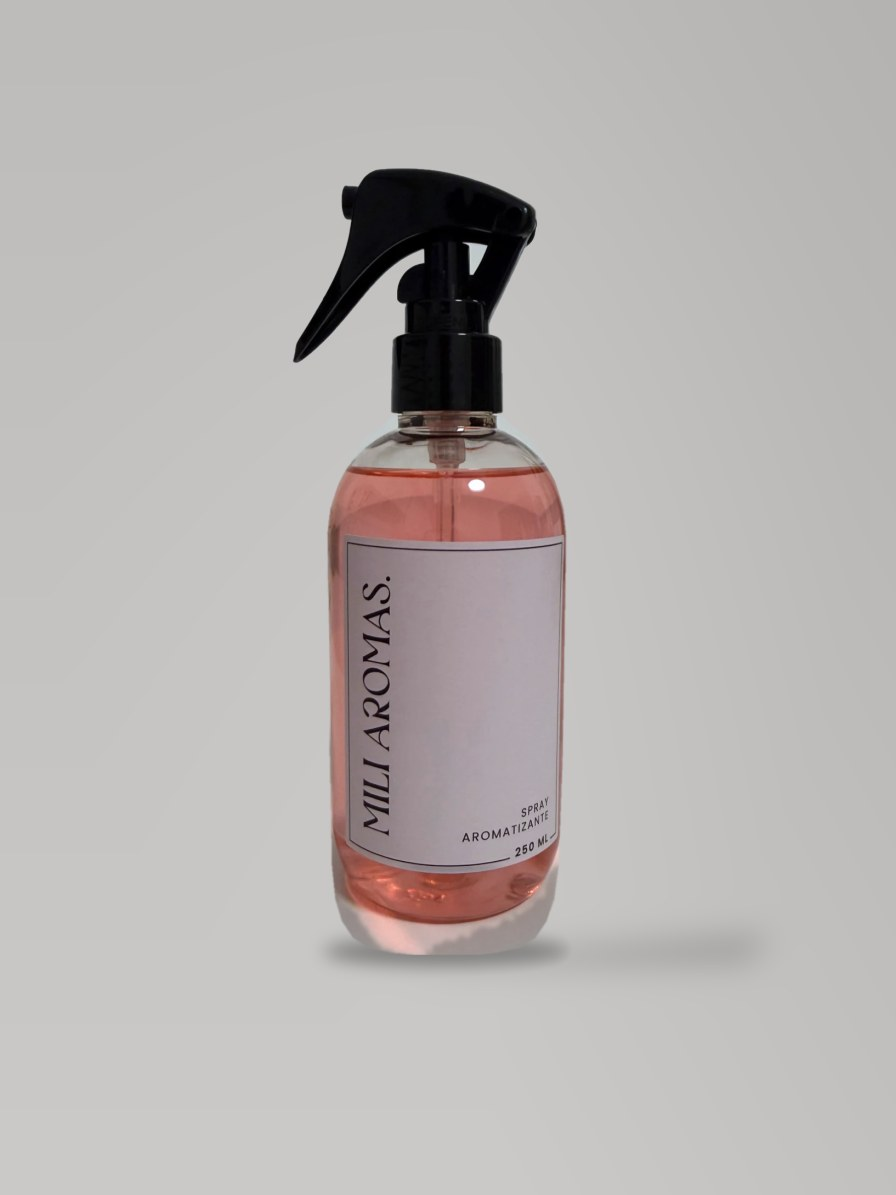
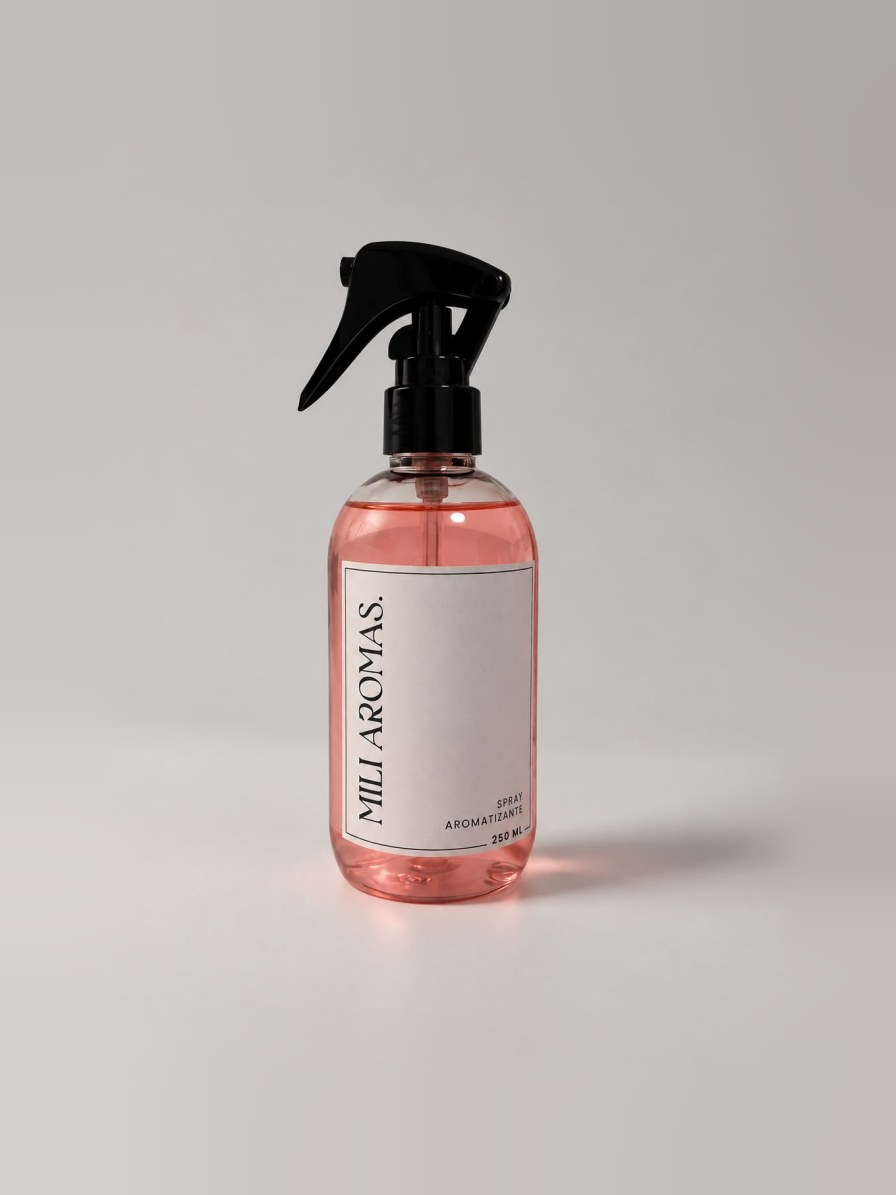
Foto nueva del spray y difusor de auto centrado
- Spray 250ml con la foto de mejor calidad, llevada a la misma escala
  que el resto de los productos
- La foto del difusor de auto vuelve al encuadre centrado en su tarjeta

Changed region(s): [[0.3125, 0.1238, 0.875, 0.836], [0.7188, 0.7741, 0.8438, 0.805]]

diff --git a/index.html b/index.html
@@ -1010,8 +1010,8 @@
                 id: 3,
                 name: "Spray aromatizante 250ml",
                 price: 6500,
-                image: "images/perfume_250.jpg?v=2",
-                focus: "50% 30%", // el gatillo queda alto: subir el encuadre para no cortarlo
+                image: "images/perfume_250.jpg?v=4",
+                focus: "50% 40%", // el gatillo queda alto: subir el encuadre para no cortarlo
                 alt: "Spray aromatizante de 250 ml",
                 aromas: ["Melón wan", "Citrus", "Rosa jazmín", "Naranja pimienta", "Coniglio", "Vainilla azúcar", "Vivex", "Limón bamboo", "Lemongrass", "Nagchampa", "Limón albahaca"]
             },
@@ -1020,7 +1020,6 @@
                 name: "Difusor auto 10ml",
                 price: 3500,
                 image: "images/difusor_auto.jpg?v=2",
-                focus: "40% 62%", // encuadre corrido para que se vea el cordón
                 alt: "Difusor para auto con tapa de madera, cordón para colgar y etiqueta de Mili Aromas",
                 aromas: ["Citrus", "Pepino melón", "Love"]
             }
